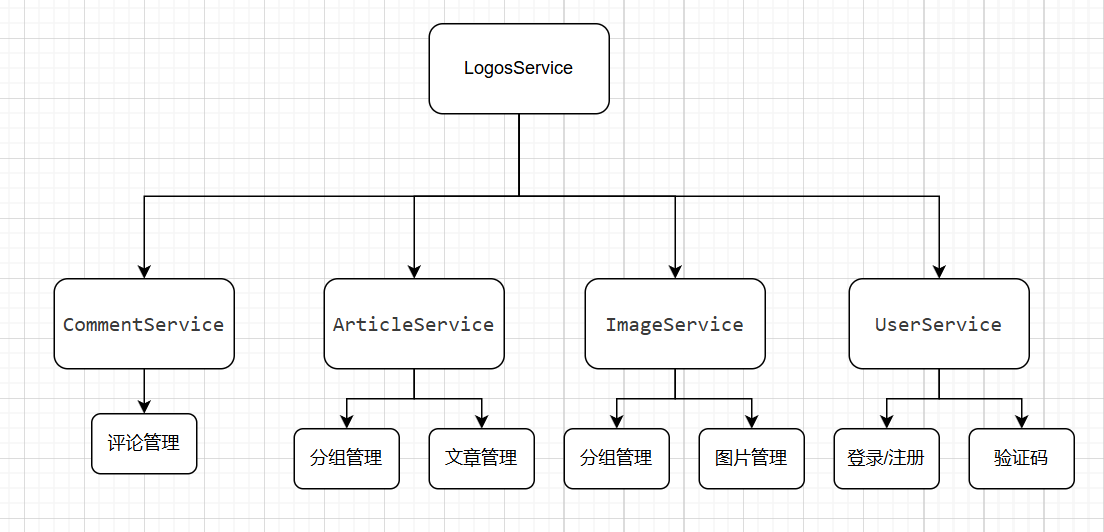
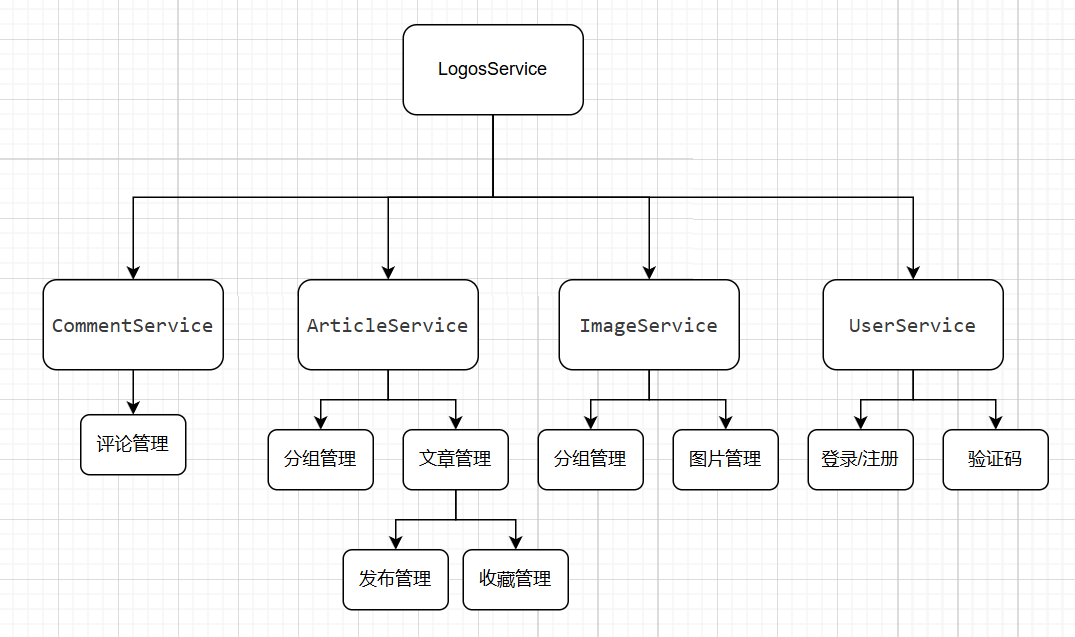
介绍文档

diff --git a/README.md b/README.md
@@ -1,5 +1,28 @@
 # logos
-简洁的MD文档网，该项目是微服务项目其具体服务分为：
+简洁的MD文档网
+
+## 后端技术详情及功能介绍
+### 技术详情
+本项目使用的技术如下：
+- 微服务技术
+  - SpringCloud
+  - SpringCloudAlibaba
+  - Nacos【服务注册与发现、配置文件共享与热更新】
+  - Seata【微服务事务】
+  - Gateway【网关、隐藏微服务与负载均衡】
+  - OpenFeign【微服务通讯】
+- 数据库技术
+  - Mysql
+  - Mybatis
+  - MybatisPlus
+- 缓存技术
+  - Caffeine【JVM缓存】
+  - Redis
+- 其它
+  - 阿里云短信服务【用于验证码】
+
+### 功能介绍
+该项目是微服务项目其具体服务分为：
 - UserService 用户服务模块
   - 用户登录
   - 用户注册
@@ -17,3 +40,276 @@
 
 如下图所示
 ![](./images/1.png)
+
+## 前端技术详情与功能介绍
+### 技术详情
+本项目使用技术如下
+- vue3
+- Router【路由】
+- Store【状态存储】
+- Axios【Ajax请求】
+- ElenemtPlus【UI】
+- vue-waterfall【图片显示瀑布流】
+- animate【动画】
+### 功能介绍
+- UserModel
+  - login/register 【登录/注册】
+  - groupManager   【图片/文章/收藏 分组管理】
+  - info           【用户详情】
+  - edit           【用户修改】
+- ArticleModel
+  - publish        【显示用户发布的文章】
+  - collector      【收藏文章】
+  - rewrite        【重写/编辑 文章】
+  - write          【写文章/发布文章】
+  - comment        【显示评论】
+- ImageModel
+  - del/upload     【删除/上传文章】
+
+## 项目部署
+### 部署前端
+我们使用 docker 部署 Nginx 具体操作如下
+```sh
+# 1.拉取 nginx 镜像
+docker pull nginx
+
+# 2.执行下列语句
+mkdir /root/nginx
+mkdir /root/nginx/conf
+mkdir /root/nginx/conf.d
+mkdir /root/nginx/html
+mkdir /root/nginx/log
+mkdir /root/nginx/html/images
+```
+然后在 /root/nginx/conf 目录下创建 nginx.conf 文件，内容如下
+```conf
+#user  nobody;
+worker_processes  1;
+
+events {
+    worker_connections  1024;
+}
+
+http {
+    include       mime.types;
+    default_type  application/octet-stream;
+
+    sendfile        on;
+    #tcp_nopush     on;
+    keepalive_timeout  65;
+
+    include /etc/nginx/conf.d/*.conf;
+}
+```
+继续在 /root/nginx/conf.d 目录下创建 default.conf 文件，内容如下
+```conf
+upstream gateway_servers {
+    server <替换为你自己的服务器IP>:8081;
+}
+
+server {
+    listen       80;
+    server_name  <替换为你自己的服务器IP>;
+
+    #允许跨域请求的域，* 代表所有
+    add_header 'Access-Control-Allow-Origin' *;
+    #允许带上cookie请求
+    add_header 'Access-Control-Allow-Credentials' 'true';
+    #允许请求的方法，比如 GET/POST/PUT/DELETE
+    add_header 'Access-Control-Allow-Methods' *;
+    #允许请求的header
+    add_header 'Access-Control-Allow-Headers' *;
+
+    location / {
+        root   /usr/share/nginx/html;
+        index  /index/index.html /index/index.htm;
+        try_files $uri $uri/ /index.html;
+    }
+    
+    location /api {
+        proxy_pass http://gateway_servers;
+        proxy_set_header Host $host;
+        proxy_set_header X-Real-IP $remote_addr;
+    }
+
+    error_page   500 502 503 504  /50x.html;
+    location = /50x.html {
+        root   /usr/share/nginx/html;
+    }
+}
+```
+然后根据 nginx 镜像创建容器
+```sh
+docker run --name nginx -d -p 80:80 
+  -v /root/nginx/log:/var/log/nginx  
+  -v /root/nginx/conf/nginx.conf:/etc/nginx/nginx.conf
+  -v /root/nginx/conf.d:/etc/nginx/conf.d 
+  -v /root/nginx/html:/usr/share/nginx/html
+  nginx
+```
+最后将 vue 项目打包将 dist 下的所有文件放到 /root/nginx/html 下
+### 后端部署
+首先创建网络
+```sh
+docker network create logos-net
+```
+再使用 docker 部署 mysql
+```sh
+docker run \
+--name mysql  \ 
+-e MYSQL_ROOT_PASSWORD=123 \
+-p 3306:3306  \
+--network logos-net \
+-d mysql:8  \
+```
+再使用 docker 部署 nacos
+```sh
+# 先创建目录
+mkdir /root/nacos
+```
+然后在 /root/nacos 下创建文件 custom.env 内容如下
+```env
+# 注意：Nacos 需要 Mysql，可以百度 Nacos 的 Mysql 数据库
+PREFER_HOST_MODE=hostname
+MODE=standalone
+SPRING_DATASOURCE_PLATFORM=mysql
+MYSQL_SERVICE_HOST=172.30.26.90
+MYSQL_SERVICE_DB_NAME=nacos
+MYSQL_SERVICE_PORT=3306
+MYSQL_SERVICE_USER=root
+MYSQL_SERVICE_PASSWORD=123
+MYSQL_SERVICE_DB_PARAM=characterEncoding=utf8&connectTimeout=1000&socketTimeout=3000&autoReconnect=true&useSSL=false&allowPublicKeyRetrieval=true&serverTimezone=Asia/Shanghai
+```
+然后再创建 nacos 容器
+```sh
+docker run -d \
+--name nacos \
+--env-file /root/nacos/custom.env \            # 这里是nacos的配置文件
+-p 8848:8848 \
+-p 9848:9848 \
+-p 9849:9849 \
+--network logos-net \
+--restart=always \
+nacos/nacos-server:v2.1.0-slim
+```
+最后创建目录 /root/seata 再在下面创建文件 application.yml 内容如下
+```yml
+server:
+  port: 7099
+spring:
+  application:
+    name: seata-server
+logging:
+  config: classpath:logback-spring.xml
+  file:
+    path: ${user.home}/logs/seata
+console:
+  user:
+    username: admin
+    password: admin
+seata:
+  config:
+    type: file
+  registry:
+    type: nacos
+    nacos:
+      application: seata-server
+      server-addr: nacos:8848
+      group : "DEFAULT_GROUP"
+      namespace: ""
+      username: "nacos"
+      password: "nacos12138"
+  security:
+    secretKey: SeataSecretKey0c382ef121d778043159209298fd40bf3850a017
+    tokenValidityInMilliseconds: 1800000
+    ignore:
+      urls: /,/**/*.css,/**/*.js,/**/*.html,/**/*.map,/**/*.svg,/**/*.png,/**/*.ico,/console-fe/public/**,/api/v1/auth/login
+  server:
+    max-commit-retry-timeout: -1
+    max-rollback-retry-timeout: -1
+    rollback-retry-timeout-unlock-enable: false
+    enable-check-auth: true
+    enable-parallel-request-handle: true
+    retry-dead-threshold: 130000
+    xaer-nota-retry-timeout: 60000
+    enableParallelRequestHandle: true
+    recovery:
+      committing-retry-period: 1000
+      async-committing-retry-period: 1000
+      rollbacking-retry-period: 1000
+      timeout-retry-period: 1000
+    undo:
+      log-save-days: 7
+      log-delete-period: 86400000
+    session:
+      branch-async-queue-size: 5000 
+      enable-branch-async-remove: false 
+  store:
+    mode: db
+    session:
+      mode: db
+    lock:
+      mode: db
+    db:
+      datasource: druid
+      db-type: mysql
+      driver-class-name: com.mysql.cj.jdbc.Driver
+      url: jdbc:mysql://mysql:3306/seata?rewriteBatchedStatements=true&serverTimezone=UTC
+      user: root
+      password: 123
+      min-conn: 10
+      max-conn: 100
+      global-table: global_table
+      branch-table: branch_table
+      lock-table: lock_table
+      distributed-lock-table: distributed_lock
+      query-limit: 1000
+      max-wait: 5000
+  metrics:
+    enabled: false
+    registry-type: compact
+    exporter-list: prometheus
+    exporter-prometheus-port: 9898
+  transport:
+    rpc-tc-request-timeout: 15000
+    enable-tc-server-batch-send-response: false
+    shutdown:
+      wait: 3
+    thread-factory:
+      boss-thread-prefix: NettyBoss
+      worker-thread-prefix: NettyServerNIOWorker
+      boss-thread-size: 1
+```
+使用 docker 创建 seata 镜像
+```sh
+docker run --name seata \
+-p 8099:8099 \
+-p 7099:7099 \
+-v /root/seata:/seata-server/resources \
+--privileged=true \
+--network logos-net \
+-d \
+seataio/seata-server:1.5.2
+```
+最后将项目打成 jar 包然后使用下列方法执行，也可以使用 docker 进行部署，不过我偷懒了
+```sh
+# 启动网关
+nohup java -Xms64m -Xmx128m -jar GatewayService.jar --spring.cloud.nacos.server-addr=127.0.0.1:8848 &
+
+# 启动用户服务
+nohup java -Xms64m -Xmx128m -jar UserService.jar --spring.cloud.nacos.server-addr=127.0.0.1:8848 &
+
+# 启动图片服务
+nohup java -Xms64m -Xmx128m -jar ImageService.jar --spring.cloud.nacos.server-addr=127.0.0.1:8848 &
+
+# 启动文章服务
+nohup java -Xms64m -Xmx128m -jar ArticleService.jar --spring.cloud.nacos.server-addr=127.0.0.1:8848 &
+
+# 启动评论服务器 
+nohup java -Xms64m -Xmx128m -jar CommentService.jar --spring.cloud.nacos.server-addr=127.0.0.1:8848 &
+```
+## 项目展示
+项目地址：http://8.134.56.250/home
+
+## 最后
+感谢一下 B 站的黑马老师们！！！
